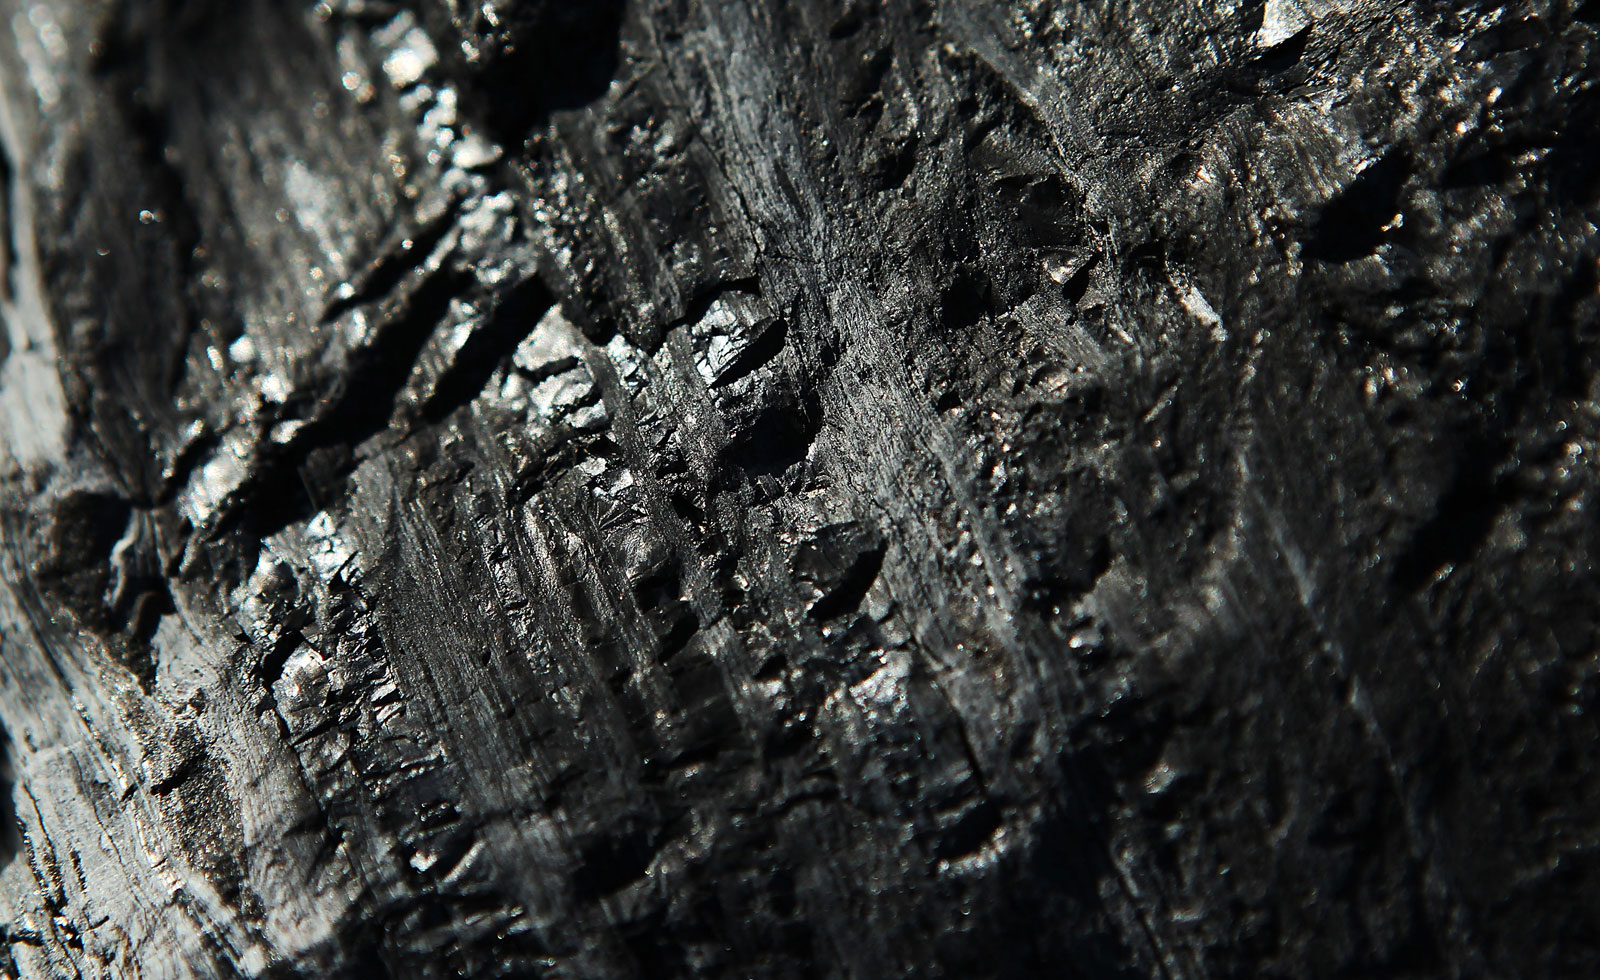
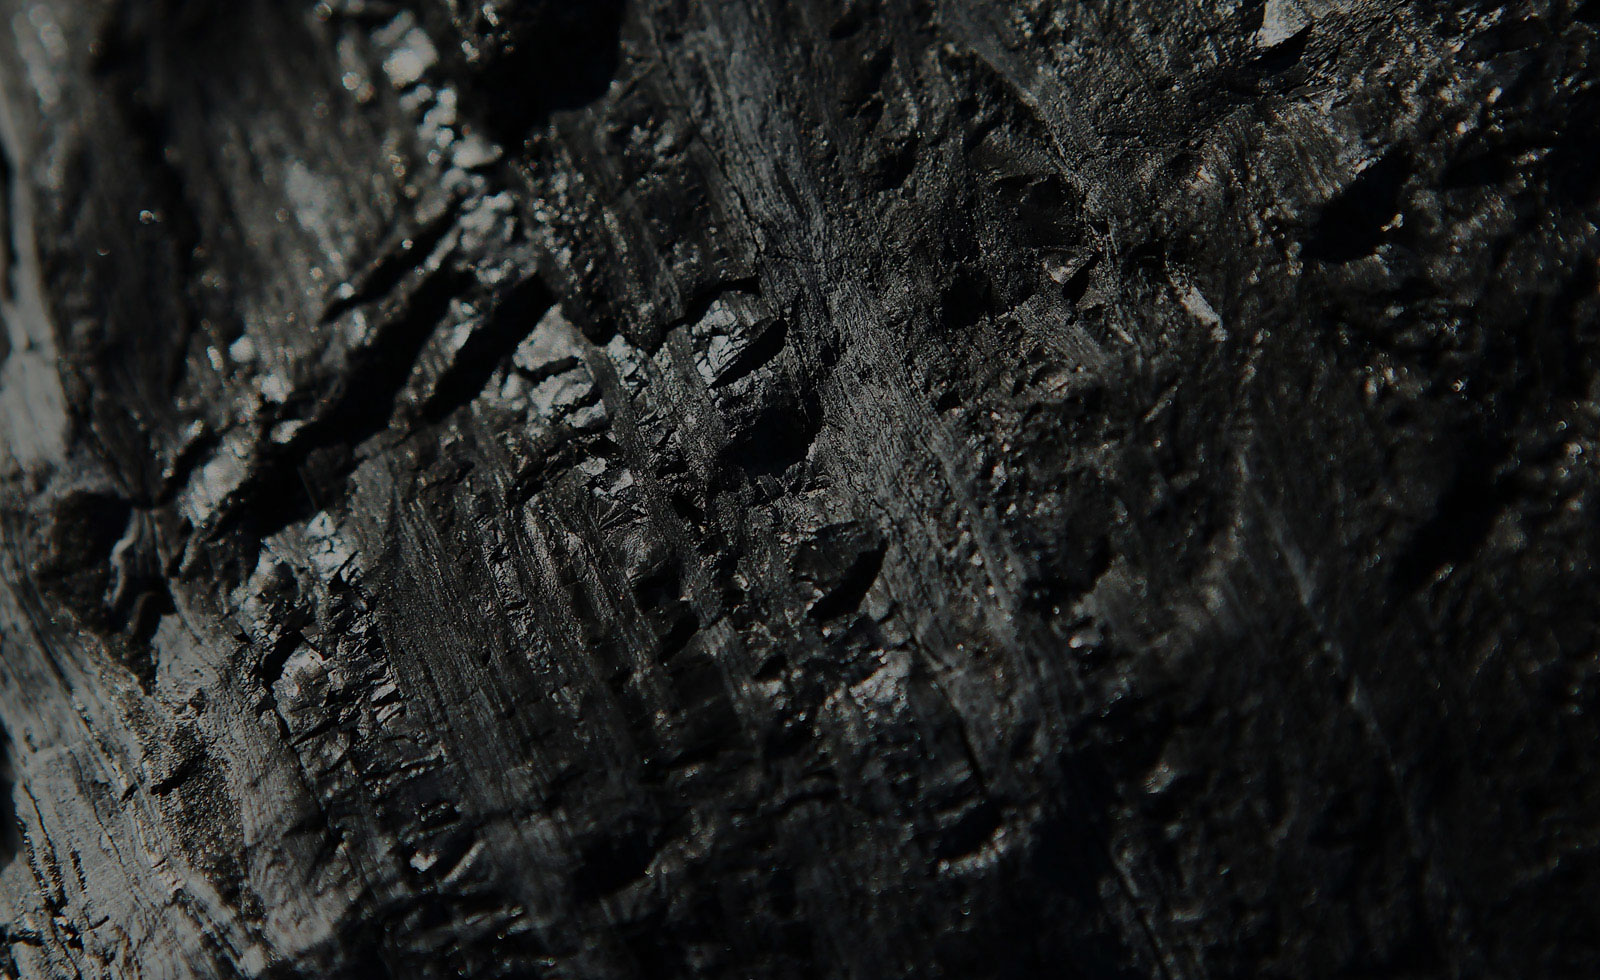
Quotes with darkened backgrounds now use pre-darkened images w/no overlay, fixed FF background glitch

diff --git a/app/styles/app.less b/app/styles/app.less
@@ -869,7 +869,8 @@ article {
   }
   .quote {
     position: relative;
-    display: table-row;
+    // display: table-row;
+    display: block;
     color: #453929;
     overflow: hidden;
     .box-shadow(inset 0 5px 10px -5px rgba(0,0,0,0.8));
@@ -903,12 +904,13 @@ article {
       position: absolute;
     }
     .row {
-      display: table-cell;
+      // display: table-cell;
+      display: block;
       vertical-align: middle;
       position: relative;
       padding:0;
       color: white;
-      margin: 8% auto;
+      margin: 0 auto;
       padding: 3% 0 5%;
       z-index: 10;
       p {
@@ -987,26 +989,21 @@ article {
       }
     }
     &.court {
-      background: @grayDark url('/images/carsunrise-size5.jpg') center center fixed  no-repeat;
+      background: @grayDark url('/images/carsunrise-size5.jpg') center center fixed no-repeat;
       background-size: cover;
       clear: both;
       margin: 5% 0;
       display: block;
     }
     &.judgement {
-      background: @grayDark url('/images/coal-size5.jpg') center center fixed  no-repeat;
+      background: @grayDark url('/images/coal-size5.jpg') center center fixed no-repeat;
+      // background-attachment: scroll; //FIXED Y U NO WORK?
       background-size: cover;
-      .row {
-        background: rgba(0,0,0,0.4);
-      }
     }
     &.final {
-      background: @grayDark url('/images/cockatoos-size5.jpg') center center fixed  no-repeat;
+      background: @grayDark url('/images/cockatoos-size5.jpg') center center fixed no-repeat;
       background-size: cover;
       margin-bottom: 0;
-      .row {
-        background: rgba(0,0,0,0.4);
-      }
     }
   }
   blockquote {
